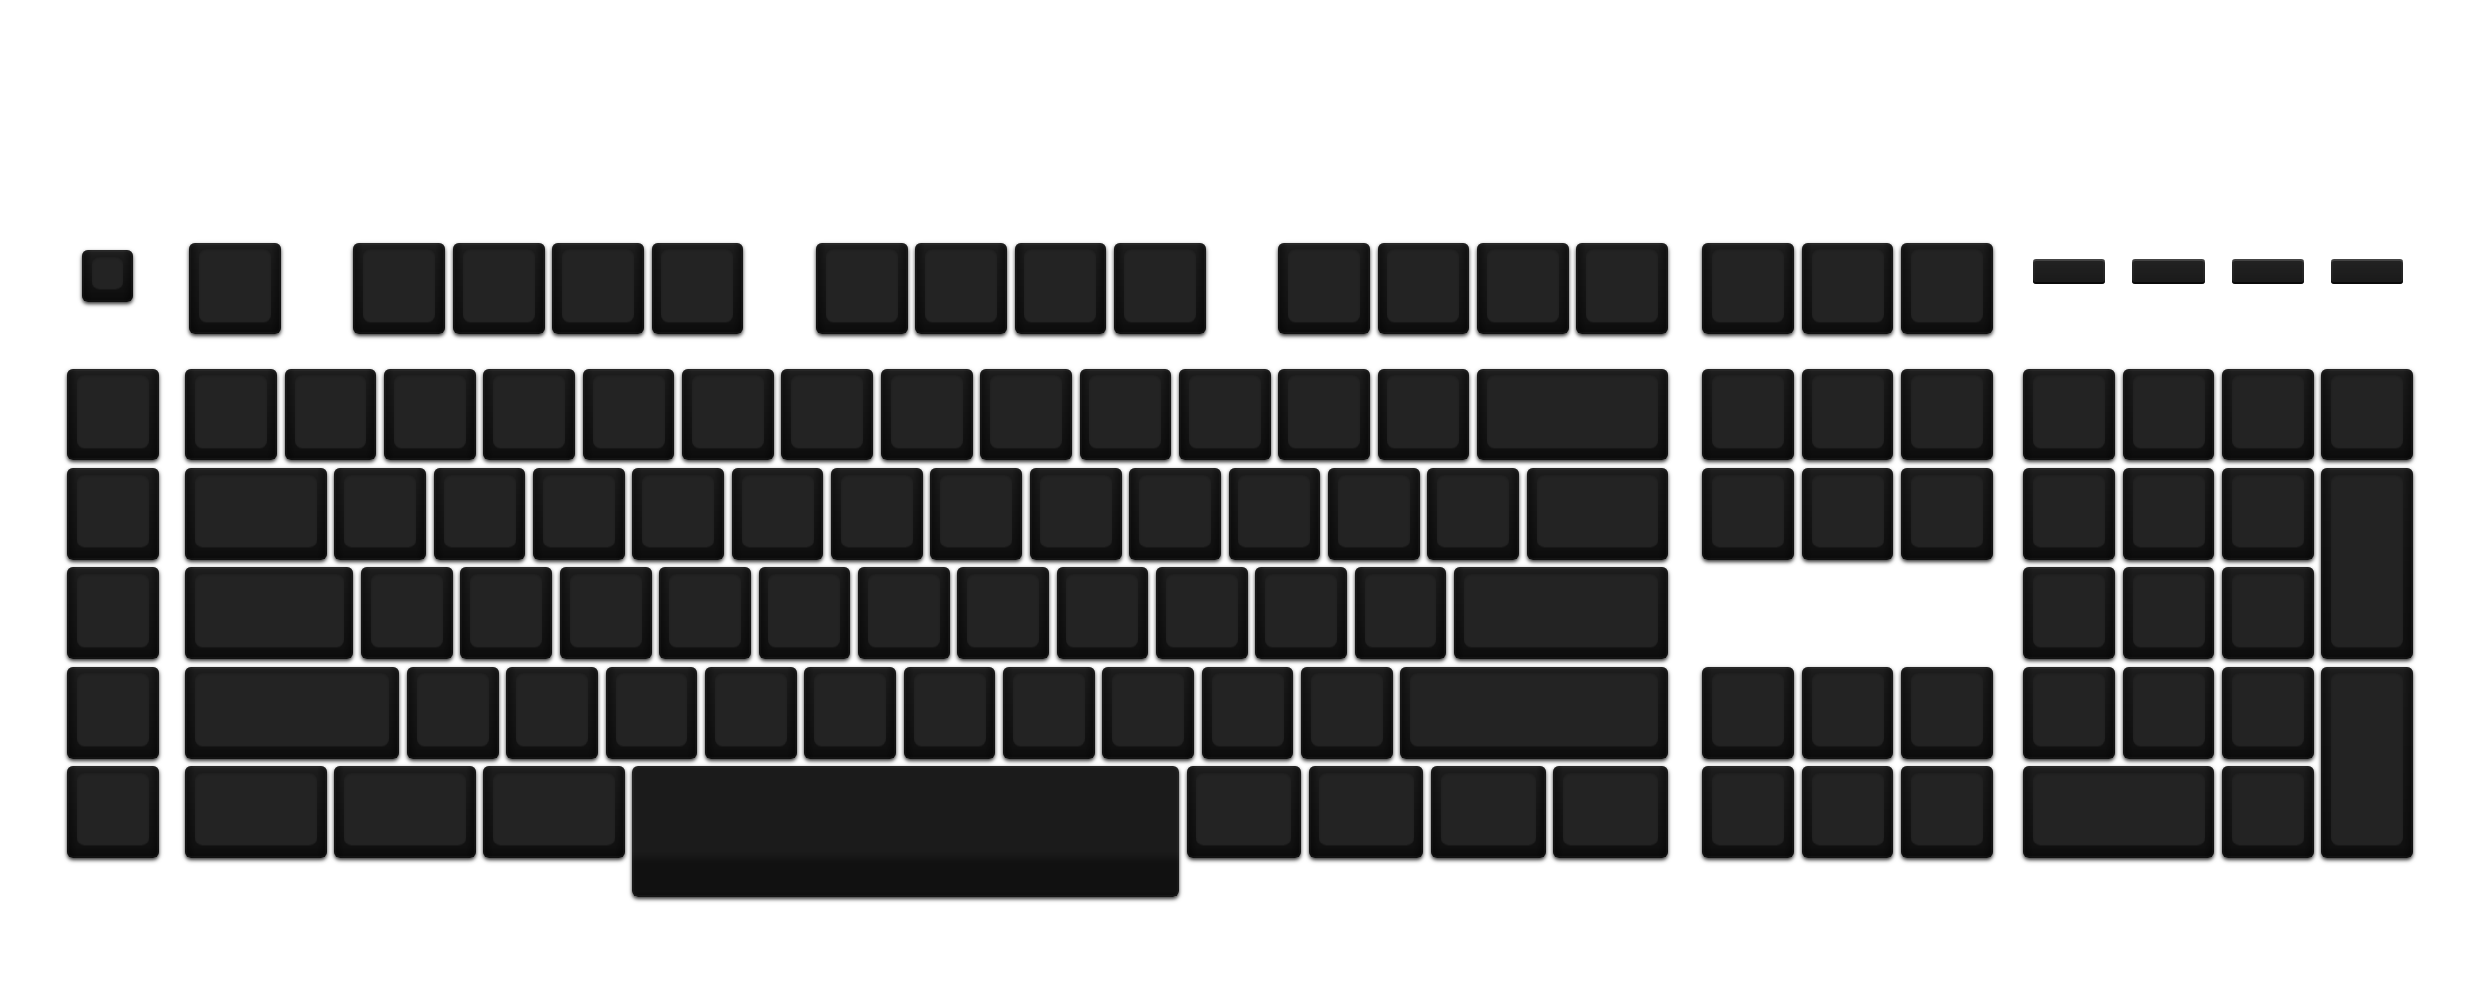
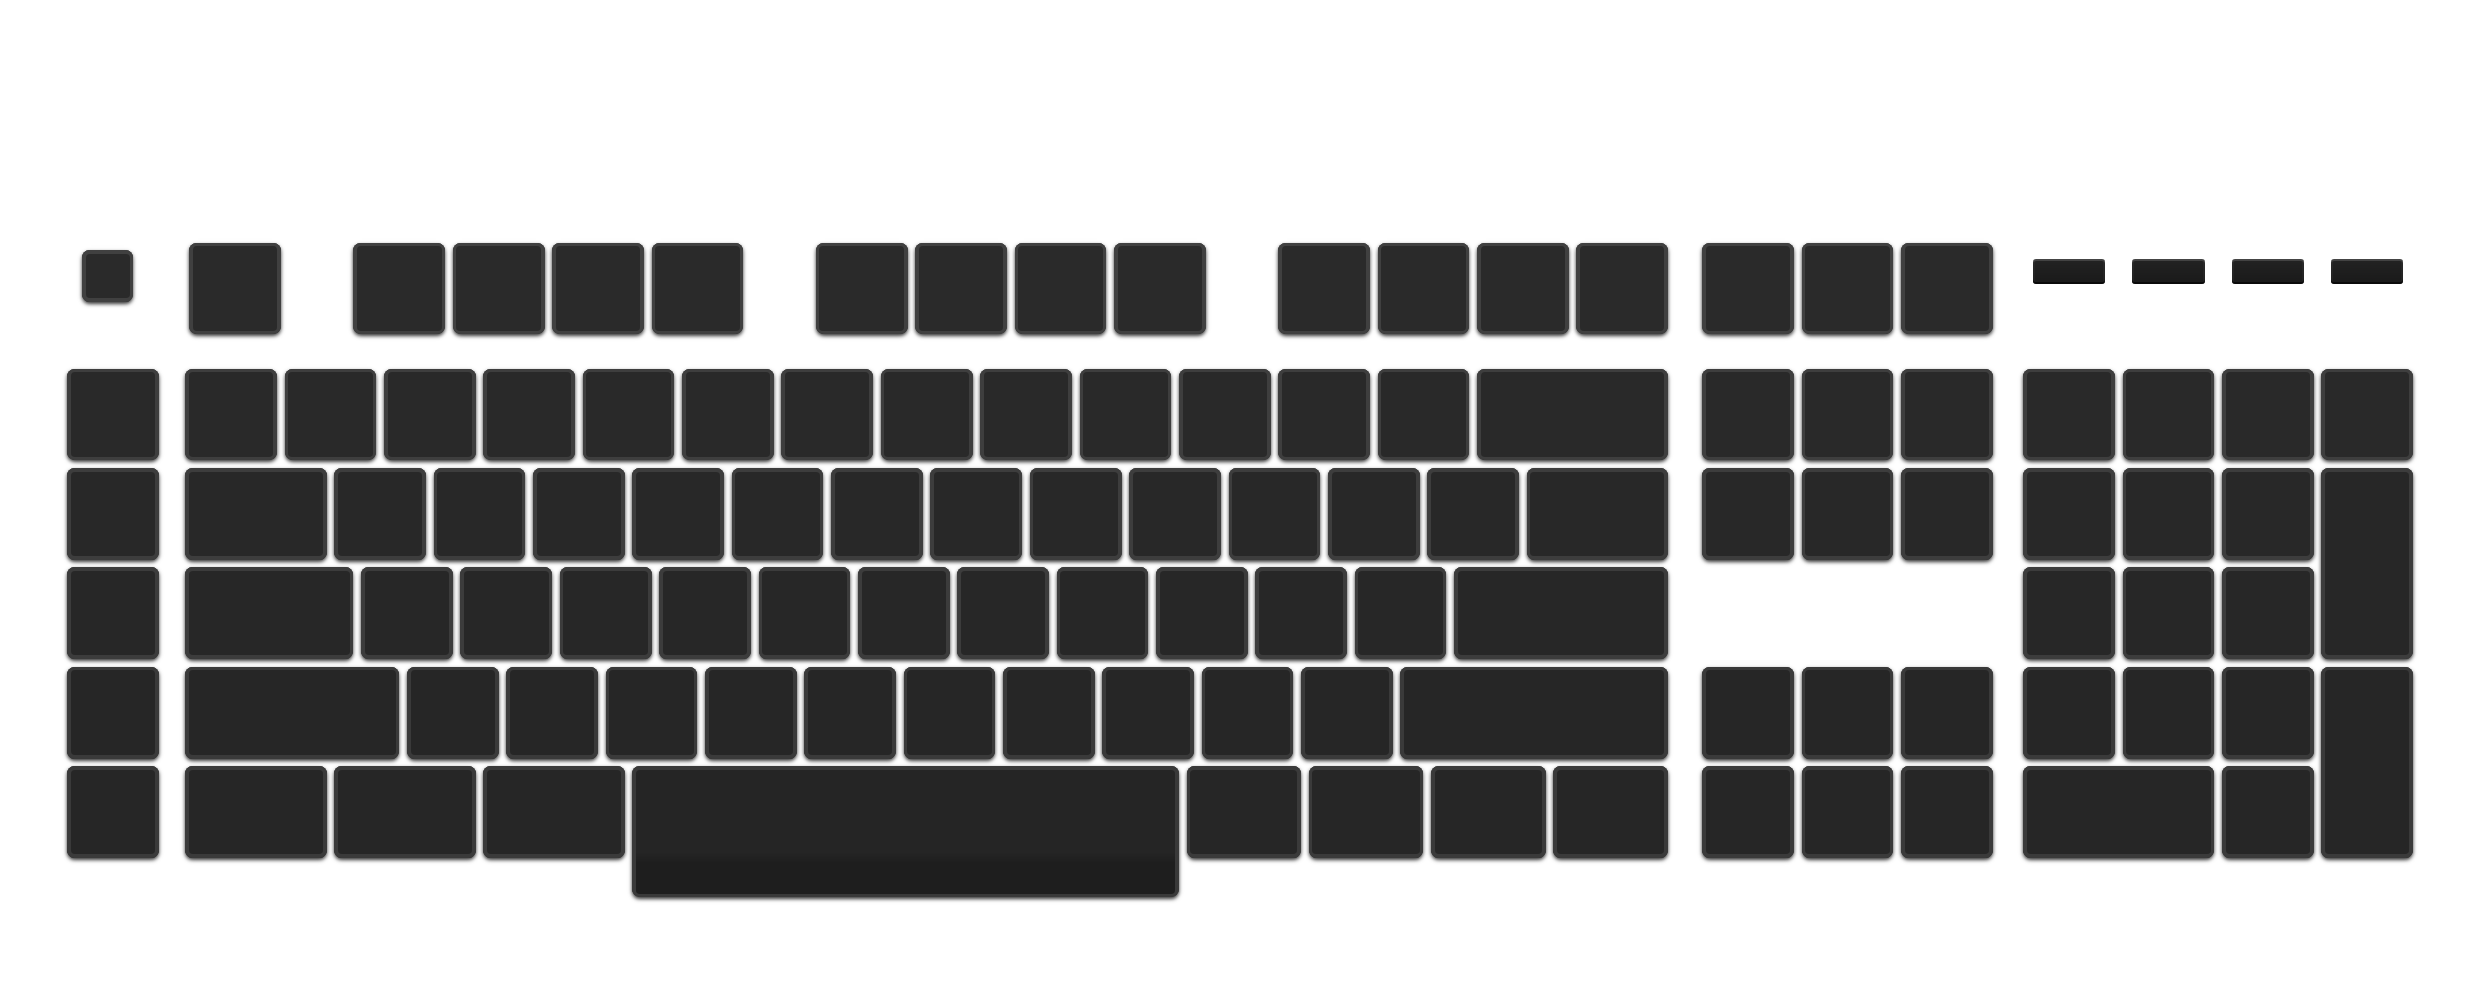
Keys shaped and lit as EVGA's photo has them
From the top-down photo: a key's top runs flat to its edge, with no
sloped sides and small corners, and a thin bright rim (4% of a key's
width, twice the top's light) runs round it. Every top is as light as
the deck where it sits, 42 at the back row to 37 at the front
(capShades in app.js, shades in build.py). The spacebar has the same top
and rim, a soft bend where the keys beside it end and a lip at 72% of
its top's light. The photo's studio lightening is left out; it bands.

Claude-Session: https://claude.ai/code/session_01G5US7FNdSZgs3iWyPkKU2v

diff --git a/apps/ectodeck/public/style.css b/apps/ectodeck/public/style.css
@@ -57,31 +57,20 @@ button:disabled { opacity: .35; cursor: default; }
 }
 .board .print span:only-child { margin: 0 auto; }   /* a single label is centred */
 .key {
-  position: absolute; border-radius: 0.24cqw; border: 0; cursor: pointer;
-  /* A black keycap seen from above, near-standard profile: the sloped sides
-     show as a rim all round (the front one a little deeper, as a sculpted cap
-     leans toward you), lit from above so the back slope catches the light and
-     the front one falls into shade. The top is the ::before below. The
-     legends centre on the top, not on the whole cap. */
+  position: absolute; border-radius: 0.3cqw; border: 0; cursor: pointer;
+  /* A keycap as EVGA's photo of the Z10 shows it from above: its top runs
+     flat to the edge, as light as the deck around it (--face, the deck's
+     shade at the key's height, set by buildBoard), and a thin bright rim runs
+     round it where the top rolls off (--rim, twice the top's light). The
+     legends sit on the top. */
   padding: 0.26cqw 0.4cqw 0.5cqw;
-  background:
-    linear-gradient(90deg, rgba(0,0,0,.55) 0, rgba(0,0,0,.2) 0.4cqw,
-                           rgba(0,0,0,.2) calc(100% - 0.4cqw), rgba(0,0,0,.55) 100%),
-    linear-gradient(180deg, #2a2a2a 0, #222222 0.26cqw, #151515 calc(100% - 0.5cqw), #0d0d0d 100%);
-  box-shadow: inset 0 0 0 1px rgba(255,255,255,.03), 0 0.08cqw 0.16cqw rgba(0,0,0,.8);
+  background: var(--face, #282828);
+  box-shadow: inset 0 0 0 0.148cqw var(--rim, #3d3d3d), 0 0.08cqw 0.16cqw rgba(0,0,0,.8);
   color: #d4d4d4; font: 600 1cqw/1 'Barlow Semi Condensed', sans-serif;
   display: grid; place-items: center; text-align: center; overflow: visible;
   transition: transform .05s ease;
 }
-/* The top of the cap: a flat face, a shade lighter than the sloped sides
-   round it, in one solid grey. A fade across it has only a few greys this dark
-   to step through, and shows them as bands. */
-.key::before {
-  content: ''; position: absolute; pointer-events: none;
-  top: 0.26cqw; left: 0.4cqw; right: 0.4cqw; bottom: 0.5cqw; border-radius: 0.3cqw;
-  background: #232323;
-  box-shadow: inset 0 0.03cqw 0.1cqw rgba(0,0,0,.18), 0 0.03cqw 0 rgba(255,255,255,.035);
-}
+.key::before { content: none; }
 .key .glow {
   position: absolute; inset: 0; border-radius: inherit; pointer-events: none;
   background: radial-gradient(120% 90% at 50% 0%, var(--c, transparent), transparent 70%);
@@ -133,20 +122,15 @@ button:disabled { opacity: .35; cursor: default; }
 .key.has-remap .leg.centred { transform: translateY(-22%); }
 .key:hover { box-shadow: inset 0 0 0 1px #8c8c8c, inset 0 1px 0 rgba(255,255,255,.1),
               0 0.08cqw 0.16cqw rgba(0,0,0,.8); }
-/* The spacebar, as EVGA's photo of the Z10 has it against the keys beside it:
-   one flat top from edge to edge, in one solid grey (a fade this dark bands),
-   with no inset top of its own; a soft bend, about 0.46cqw deep, centred where
-   the keys beside it end (--bend, set by buildBoard); then a much darker front
-   face hanging over the deck, darkest along its bottom edge. Its greys are the
-   photo's, each in the same ratio to a key's top as there, in light. */
+/* The spacebar, as EVGA's photo has it: the same flat top and bright rim as
+   every key, a soft bend about 0.46cqw deep centred where the keys beside it
+   end (--bend, set by buildBoard), then its front face hanging over the deck,
+   a little darker (--lip, 72% of the top's light). */
 .key[aria-label="Space"] {
   padding: 0;
-  background:
-    linear-gradient(180deg, #1b1b1b 0, #1b1b1b calc(var(--bend, 70%) - 0.23cqw), #111111 calc(var(--bend, 70%) + 0.23cqw),
-                            #111111 calc(100% - 0.23cqw), #0b0b0b 100%);
-  box-shadow: inset 0 0 0 1px rgba(255,255,255,.03), 0 0.08cqw 0.16cqw rgba(0,0,0,.8);
+  background: linear-gradient(180deg, var(--face, #262626) 0, var(--face, #262626) calc(var(--bend, 70%) - 0.23cqw),
+                                      var(--lip, #202020) calc(var(--bend, 70%) + 0.23cqw), var(--lip, #202020) 100%);
 }
-.key[aria-label="Space"]::before { display: none; }
 .key.molded::before { display: none; }
 /* The media buttons are not keycaps. They are moulded blocks that sit much
    lower than the caps and barely below the deck, so they are flat-topped and

diff --git a/apps/ectodeck/public/app.js b/apps/ectodeck/public/app.js
@@ -705,6 +705,16 @@ const MARKS = '`~-_=+^*\'";:,.';
 // keys print theirs at the top, as every other key does.
 const CENTRED = new Set(['Tab', 'CapsLock', 'LSHIFT', 'RSHIFT', 'Enter', 'KeypadEnter', 'Backspace'])
 
+// A cap's shades at a height in the drawing: its top the deck's shade there,
+// its rim twice that light and a lip 72% of it, as EVGA's photo has them.
+function capShades(y) {
+  const top = Math.round(Math.min(42, Math.max(37, 42 - (y - 60) * 5 / 170)));
+  const lin = v => (v /= 255) <= 0.04045 ? v / 12.92 : ((v + 0.055) / 1.055) ** 2.4;
+  const enc = l => Math.round(255 * (l <= 0.0031308 ? l * 12.92 : 1.055 * l ** (1 / 2.4) - 0.055));
+  const grey = v => `rgb(${v},${v},${v})`;
+  return [grey(top), grey(enc(Math.min(1, lin(top) * 2.2))), grey(enc(lin(top) * 0.72))];
+}
+
 function buildBoard() {
   const board = $('#board');
   const { x0, y0, x1, y1 } = SPACE;
@@ -744,6 +754,11 @@ function buildBoard() {
     }, el('span', { class: 'halo' }), el('span', { class: 'glow' }),
        keyFace(k.id), el('span', { class: 'remap' }));
     board.append(b);
+    // Every cap is as light as the deck where it sits (the deck's shade runs
+    // from 42 at the back row to 37 at the front), with a rim at twice its
+    // light and, on the spacebar, a lip at 72% of it (style.css .key)
+    const [face, rim, lip] = capShades(k.y + k.h / 2);
+    b.style.setProperty('--face', face); b.style.setProperty('--rim', rim); b.style.setProperty('--lip', lip);
     // the spacebar bends where the keys beside it end (style.css)
     if (k.id === 'Space') {
       const next = S.layout.find(o => o !== k && Math.abs(o.y - k.y) < 1);
